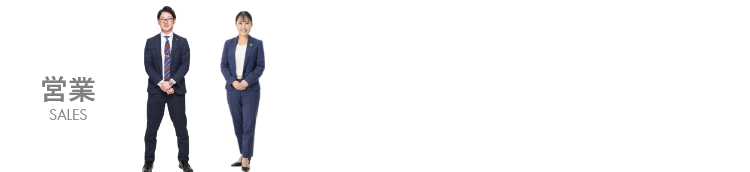
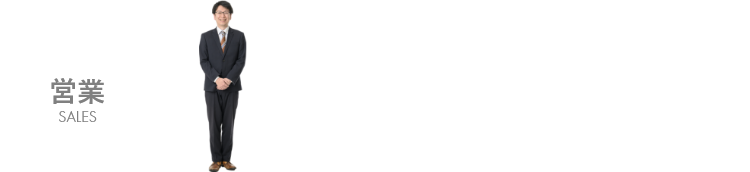
PC タブレット調整

Changed region(s): [[0.184, 0.0, 0.368, 1.0], [0.0307, 0.436, 0.1533, 0.6105], [0.0613, 0.6395, 0.1227, 0.7267]]

diff --git a/about/works/assets/css/_flowBox.scss b/about/works/assets/css/_flowBox.scss
@@ -304,10 +304,10 @@
 
   // 営業、設計、施工のボックス
   .wk-flowBox__label {
-    width: 10vw;
+    width: 7vw;
     padding: 1.25vw 0;
     top: 1.5vw;
-    font-size: 2.67vw;
+    font-size: 1.67vw;
 
     span {
       font-size: 1vw;
@@ -315,8 +315,8 @@
     }
   }
   .wk-flowBox__label--small {
-    width: 10.83vw;
-    font-size: 2.08vw;
+    width: 12vw;
+    font-size: 1.67vw;
   }
 
   // // 縦方向の点線と営業、設計、施工の横方向の位置
@@ -335,6 +335,113 @@
   //     left: 78%;
   //   }
   // }
+
+  // 1本目
+  .wk-flowBox__dashed--01 {
+    &::before {
+      @extend %flowBox__dashed;
+      left: 50.5%;
+    }
+  }
+
+  .wk-flowBox--01 .wk-flowBox__label {
+    left: 46.5%;
+  }
+
+
+  // 2本目
+  .wk-flowBox__dashed--02 {
+    &::before {
+      @extend %flowBox__dashed;
+      left: 59.5%;
+    }
+  }
+
+  .wk-flowBox--03 .wk-flowBox__label {
+    left: 55.5%;
+  }
+
+
+  //2本目その2
+  .wk-flowBox__dashed--02-02 {
+    &::before {
+      @extend %flowBox__dashed;
+      left: 69.5%;
+    }
+  }
+
+  .wk-flowBox--03 .wk-flowBox__label-02 {
+      left: 63.5%;
+  }
+
+  .wk-flowBox--03 {
+    .wk-flowBox__dashed--02 {
+      &::before {
+        height: 80%;
+      }
+    }
+    .wk-flowBox__dashed--02-02 {
+      &::before {
+        height: 80%;
+      }
+    }
+  }
+
+  // 3本目
+  .wk-flowBox__dashed--03 {
+    &::before {
+      @extend %flowBox__dashed;
+      left: 77.5%;
+    }
+  }
+
+  .wk-flowBox--04 .wk-flowBox__label {
+    left: 71%;
+    span {
+      scale: 0.7;
+      margin-left: -0.6em;
+    }
+  }
+
+  // 4本目
+  .wk-flowBox__dashed--04 {
+    &::before {
+      @extend %flowBox__dashed;
+      left: 85%;
+    }
+  }
+
+  .wk-flowBox--05 .wk-flowBox__label {
+    width: 9vw;
+    left: 80%;
+  }
+
+  // 5本目
+  .wk-flowBox__dashed--05 {
+    &::before {
+      @extend %flowBox__dashed;
+      left: 94%;
+    }
+  }
+
+  .wk-flowBox--06 .wk-flowBox__label {
+    left: 88.5%;
+  }
+
+  // 6本目
+  .wk-flowBox__dashed--06 {
+    &::before {
+      @extend %flowBox__dashed;
+      left: 99%;
+    }
+  }
+
+  .wk-flowBox--07 .wk-flowBox__label {
+    left: 93%;
+  }
+
+
+
 
 }
 

diff --git a/about/works/assets/css/style.css b/about/works/assets/css/style.css
@@ -311,18 +311,71 @@
     font-size: 1.4rem;
   }
   .wk-flowBox__label {
-    width: 10vw;
+    width: 7vw;
     padding: 1.25vw 0;
     top: 1.5vw;
-    font-size: 2.67vw;
+    font-size: 1.67vw;
   }
   .wk-flowBox__label span {
     font-size: 1vw;
     margin-top: 0.5vw;
   }
   .wk-flowBox__label--small {
-    width: 10.83vw;
-    font-size: 2.08vw;
+    width: 12vw;
+    font-size: 1.67vw;
+  }
+  .wk-flowBox__dashed--01::before {
+    left: 50.5%;
+  }
+  .wk-flowBox--01 .wk-flowBox__label {
+    left: 46.5%;
+  }
+  .wk-flowBox__dashed--02::before {
+    left: 59.5%;
+  }
+  .wk-flowBox--03 .wk-flowBox__label {
+    left: 55.5%;
+  }
+  .wk-flowBox__dashed--02-02::before {
+    left: 69.5%;
+  }
+  .wk-flowBox--03 .wk-flowBox__label-02 {
+    left: 63.5%;
+  }
+  .wk-flowBox--03 .wk-flowBox__dashed--02::before {
+    height: 80%;
+  }
+  .wk-flowBox--03 .wk-flowBox__dashed--02-02::before {
+    height: 80%;
+  }
+  .wk-flowBox__dashed--03::before {
+    left: 77.5%;
+  }
+  .wk-flowBox--04 .wk-flowBox__label {
+    left: 71%;
+  }
+  .wk-flowBox--04 .wk-flowBox__label span {
+    scale: 0.7;
+    margin-left: -0.6em;
+  }
+  .wk-flowBox__dashed--04::before {
+    left: 85%;
+  }
+  .wk-flowBox--05 .wk-flowBox__label {
+    width: 9vw;
+    left: 80%;
+  }
+  .wk-flowBox__dashed--05::before {
+    left: 94%;
+  }
+  .wk-flowBox--06 .wk-flowBox__label {
+    left: 88.5%;
+  }
+  .wk-flowBox__dashed--06::before {
+    left: 99%;
+  }
+  .wk-flowBox--07 .wk-flowBox__label {
+    left: 93%;
   }
 }
 @media screen and (max-width: 767px) {
@@ -444,13 +497,16 @@
 @media screen and (max-width: 1199px) {
   .wk-memberBox {
     top: 6.25vw;
-    left: -9vw;
+    left: 3vw;
+  }
+  .wk-memberBox__list {
+    width: 70%;
   }
   .wk-memberBox__item--link span {
     font-size: 1.75vw;
   }
   .wk-memberBox__item--link img {
-    max-width: 10.42vw;
+    max-width: 16.42vw;
     max-height: 25vw;
   }
 }
@@ -570,6 +626,9 @@
 @media screen and (max-width: 1199px) {
   .wk-contentInner {
     width: 90%;
+  }
+  .wk-contentInner--member {
+    min-width: auto;
   }
 }
 @media screen and (max-width: 767px) {

diff --git a/reform/about/works/assets/css/style.css b/reform/about/works/assets/css/style.css
@@ -1,3 +1,4 @@
+@charset "UTF-8";
 .wk-hero__inner {
   margin-top: -10.5%;
   padding: 17% 0 16%;
@@ -8,6 +9,11 @@
 }
 .wk-hero__inner .container-sm {
   padding-right: 105px;
+}
+@media screen and (max-width: 767px) {
+  .wk-hero__inner .container-sm {
+    padding-right: 10px;
+  }
 }
 
 .wk-hero__content {
@@ -265,7 +271,7 @@
     font-size: 2.67vw;
   }
   .wk-flowBox__cotent {
-    min-height: 31.25vw;
+    min-height: 51.25vw;
     padding: 7.08vw 0;
   }
   .wk-flowBox__cotent h3 {
@@ -554,4 +560,8 @@
     width: 100%;
     padding: 0 1rem;
   }
+}
+header, .h1, .breadcrumb, .side-nav, footer {
+  font-family: Quicksand, "ヒラギノ角ゴシック Pro", "Hiragino Kaku Gothic Pro", "游ゴシック体", "Yu Gothic", YuGothic, "メイリオ", Meiryo, Osaka, "ＭＳ Ｐゴシック", "MS PGothic", sans-serif;
+  font-weight: 500;
 }/*# sourceMappingURL=style.css.map */

diff --git a/about/works/assets/css/_memberBox.scss b/about/works/assets/css/_memberBox.scss
@@ -114,7 +114,10 @@ list-style: none;
 @include _mq-down('lg'){
   .wk-memberBox {
     top: 6.25vw;
-    left: -9vw;
+    left: 3vw;
+  }
+  .wk-memberBox__list {
+    width: 70%;
   }
   // .wk-memberBox__list {
   //   li {
@@ -139,7 +142,7 @@ list-style: none;
       font-size: 1.75vw;
     }
     img {
-      max-width: 10.42vw;
+      max-width: 16.42vw;
       max-height: 25vw;
     }
   }

diff --git a/reform/about/works/assets/css/style.scss b/reform/about/works/assets/css/style.scss
@@ -29,3 +29,9 @@
     padding: 0 1rem;
   }
 }
+
+//common.jsの打ち消し
+header,.h1, .breadcrumb, .side-nav, footer {
+  font-family: Quicksand,"ヒラギノ角ゴシック Pro","Hiragino Kaku Gothic Pro","游ゴシック体","Yu Gothic",YuGothic,"メイリオ",Meiryo,Osaka,"ＭＳ Ｐゴシック","MS PGothic",sans-serif;
+  font-weight: 500;
+}

diff --git a/reform/about/works/assets/css/_flowBox.scss b/reform/about/works/assets/css/_flowBox.scss
@@ -230,7 +230,7 @@
     font-size: 2.67vw;
   }
   .wk-flowBox__cotent {
-    min-height: 31.25vw;
+    min-height: 51.25vw;
     padding: 7.08vw 0;
     h3 {
       font-size: 2.67vw;

diff --git a/about/works/assets/css/style.scss b/about/works/assets/css/style.scss
@@ -21,6 +21,9 @@
 @include _mq-down('lg'){
   .wk-contentInner {
     width: 90%;
+    &--member {
+      min-width: auto;
+    }
   }
 }
 @include _mq-down('md'){

diff --git a/reform/about/works/assets/css/_hero.scss b/reform/about/works/assets/css/_hero.scss
@@ -9,6 +9,9 @@
 
   .container-sm {
     padding-right: 105px;
+    @include _mq-down('md'){
+      padding-right: 10px;
+    }
   }
 }
 

diff --git a/about/works/index.php b/about/works/index.php
@@ -145,7 +145,6 @@
 			<li class="wk-flowBox wk-flowBox--01 u-text-wh">
 				<div class="wk-contentInner">
 					<div class="wk-flowBox__dashed--01 u-dn u-db-md"></div>
-					<div class="wk-flowBox__dashed--02 u-dn u-db-md"></div>
 					<div class="wk-flowBox__cotent">
 						<div class="wk-flowBox__num"><span class="u-text-uppercase">Step</span>01</div>
 						<h3 class="u-text-bold">出会い</h3>
@@ -322,7 +321,7 @@
 						<area target="" alt="" title="" href="/about/staff/sakai.php" coords="453,314,517,477" shape="rect">
 					</map> -->
 				</div><!-- //.wk-memberBox--sp -->
-			</li>//.wk-flowBox
+			</li>
 		</ul><!-- //.wk-flowBox__wrapper -->
 	</div>
 
